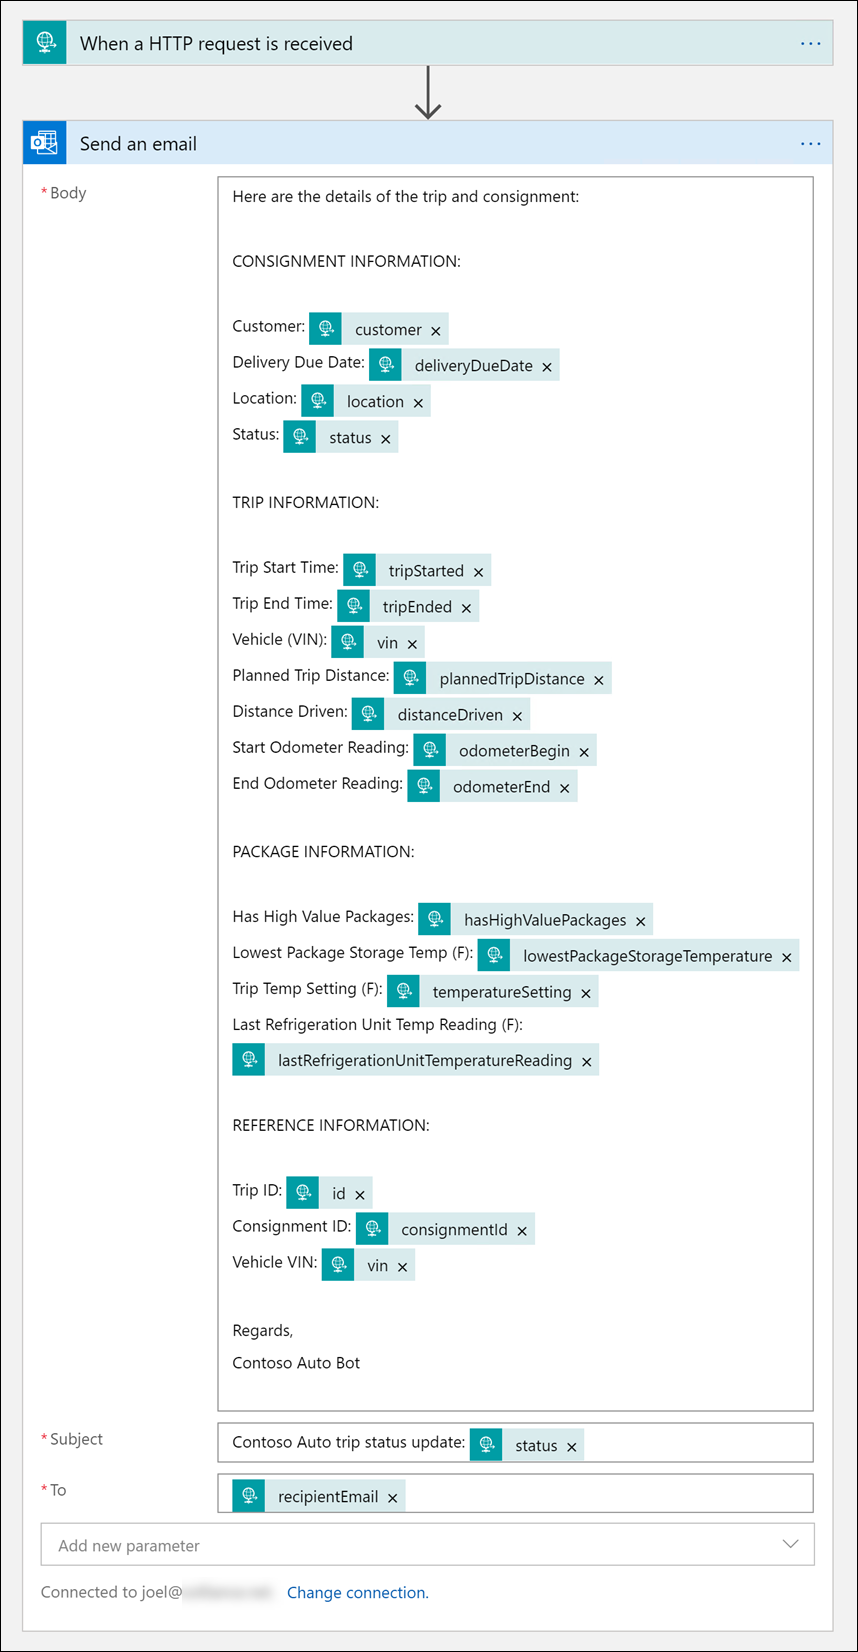
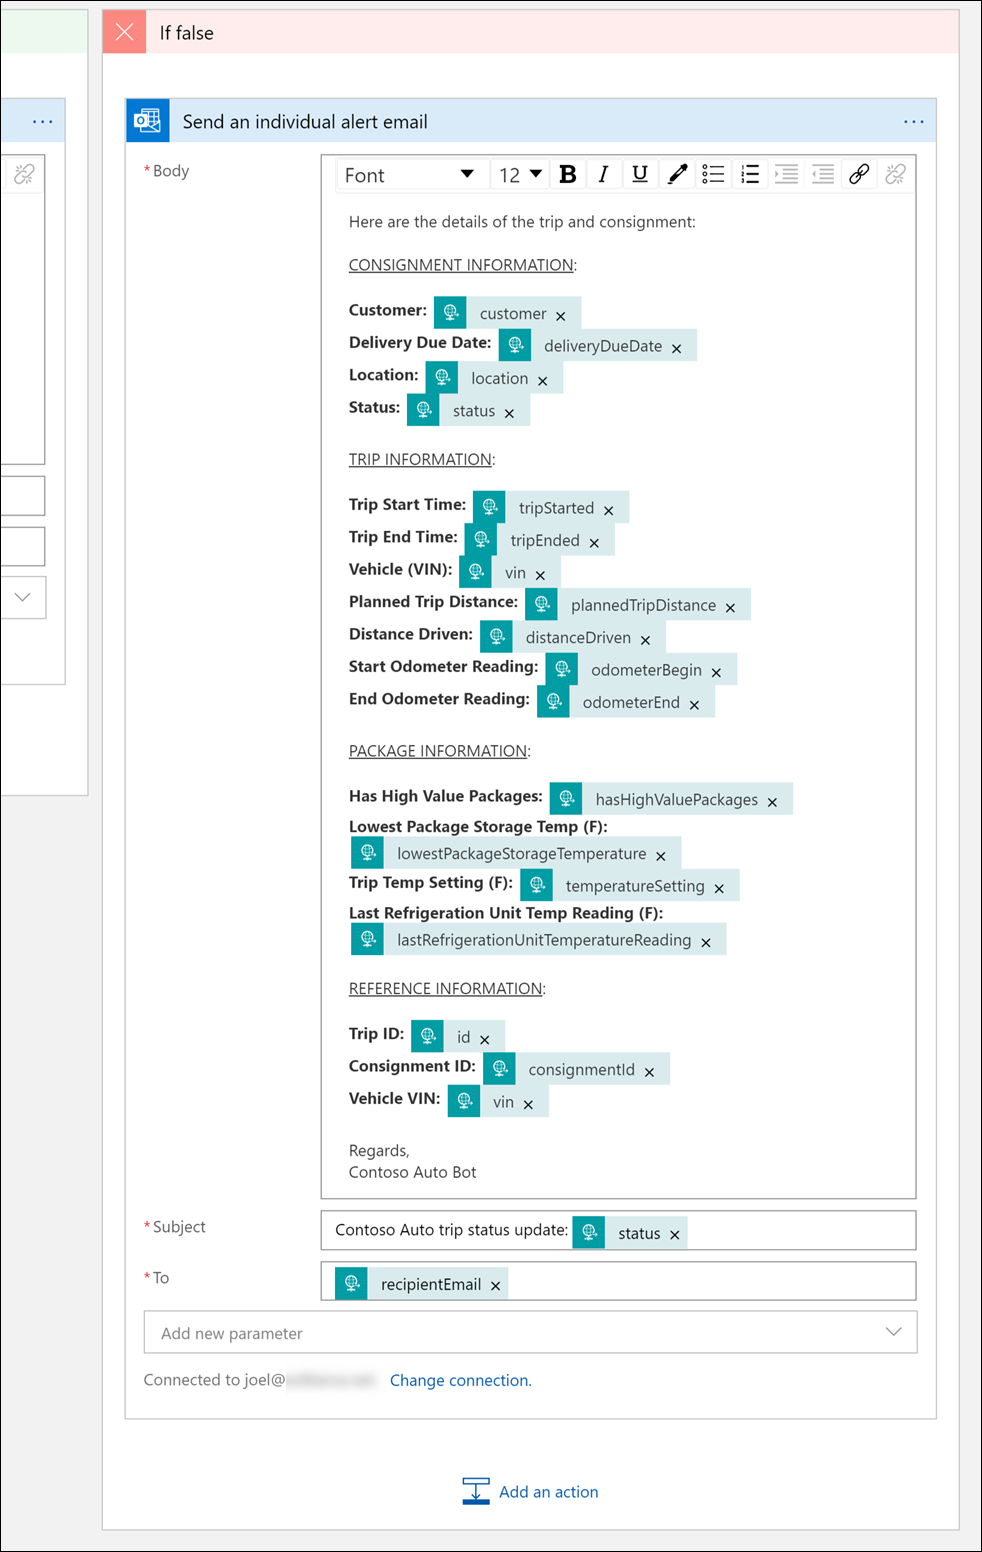
Updated Logic App information in the Quickstart guide

diff --git a/Quickstart.md b/Quickstart.md
@@ -342,7 +342,7 @@ The Azure Logic Apps service works as a powerful workflow orchestrator that nati
 
 The logic app that is deployed in the solution accelerator sends email notifications to recipients when certain event milestones occur, such as when a package delivery is running behind schedule, or when an oil pump encounters an anomaly.
 
-To view the logic app, select **Logic app designer** in the left-hand menu. This will display the current workflow in the visual designer. There are currently two activities:
+To view the logic app, select **Logic app designer** in the left-hand menu. This will display the current workflow in the visual designer. There are currently four activities:
 
 1. **HTTP trigger**: This is the entry point for the logic app. When you post a request to the URL provided by this activity, the logic app is triggered and it receives a payload of data from the request body in JSON format. This is the shape of the JSON document that the Azure Function sends to the logic app through this HTTP trigger:
 
@@ -353,6 +353,9 @@ To view the logic app, select **Logic app designer** in the left-hand menu. This
                 "type": "string"
             },
             "customer": {
+                "type": "string"
+            },
+            "delayedVINs": {
                 "type": "string"
             },
             "deliveryDueDate": {
@@ -366,6 +369,9 @@ To view the logic app, select **Logic app designer** in the left-hand menu. This
             },
             "id": {
                 "type": "string"
+            },
+            "isSummary": {
+                "type": "boolean"
             },
             "lastRefrigerationUnitTemperatureReading": {
                 "type": "integer"
@@ -400,6 +406,15 @@ To view the logic app, select **Logic app designer** in the left-hand menu. This
             "tripStarted": {
                 "type": "string"
             },
+            "tripsCompleted": {
+                "type": "integer"
+            },
+            "tripsDelayed": {
+                "type": "integer"
+            },
+            "tripsStarted": {
+                "type": "integer"
+            },
             "vin": {
                 "type": "string"
             }
@@ -410,11 +425,33 @@ To view the logic app, select **Logic app designer** in the left-hand menu. This
 
     Defining this payload allows subsequent activities to reference the fields to dynamically add the values, as you can see below.
 
-2. **Send an email**: This activity uses Office 365 to send an email to the defined email recipient (`recipientEmail` field). Office 365 is only one of many connections for sending emails. You can use Outlook, Gmail, SendGrid, and other email services. You can also use on of the [hundreds of service connectors](https://docs.microsoft.com/azure/connectors/apis-list) to send notifications or create multi-step workflows. Notice in the screenshot below that we are using dynamic field references in the email activity from the payload sent to the HTTP trigger:
+2. **Condition**: The Condition evaluates the `isSummary` value, which indicates whether the passed in alert is for a summary email (summary of alerts sent every x minutes) or an individual alert message. There are two paths, based on the value: **If true**, which contains an activity that sends the summary email, and **If false**, which contains an activity that sends the individual alert email.
+
+    ![The Condition within the logic app's designer is displayed.](media/logic-app-condition.png "Logic app condition")
+
+3. **Send an alert summary email**: This activity uses Office 365 to send an email to the defined email recipient (`recipientEmail` field). Office 365 is only one of many connections for sending emails. You can use Outlook, Gmail, SendGrid, and other email services. You can also use one of the [hundreds of service connectors](https://docs.microsoft.com/azure/connectors/apis-list) to send notifications or create multi-step workflows. Notice in the screenshot below that we are using dynamic field references in the email activity from the payload sent to the HTTP trigger:
+
+    ![The email activity within the logic app's designer is displayed.](media/logic-app-summary-email-activity.png "Logic app summary email activity")
+
+    You can use a dialog within the designer to add the dynamic fields from a list, or you can use a special dynamic field reference syntax (`@{source()?['field']}`) instead. When you paste the following into the email body, for instance, the dynamic fields will appear in the same way as in the screenshot above:
+
+    ```text
+    Here is a summary of the status of your trips:
+
+    Number of trips that started: @{triggerBody()?['tripsStarted']}
+    Number of trips that ended: @{triggerBody()?['tripsCompleted']}
+    Delayed trips: @{triggerBody()?['tripsDelayed']}
+    Delayed vehicles (VINs): @{triggerBody()?['delayedVINs']}
+
+    Regards,
+    Contoso Auto Bot
+    ```
+
+4. **Send an individual alert email**: This activity also uses Office 365 to send an email to the defined email recipient (`recipientEmail` field).
 
     ![The email activity within the logic app's designer is displayed.](media/logic-app-email-activity.png "Logic app email activity")
 
-    You can use a dialog within the designer to add the dynamic fields from a list, or you can use a special dynamic field reference syntax (`@{source()?['field']}`) instead. When you paste the following into the email body, for instance, the dynamic fields will appear in the same way as the screenshot above:
+    The email body is as follows:
 
     ```text
     Here are the details of the trip and consignment:
@@ -1401,10 +1438,22 @@ There is a lot of code within the data generator project, so we'll just touch on
         // Set initial performance to 400 RU/s due to light workloads.
         await _database.CreateContainerIfNotExistsAsync(maintenanceContainerDefinition, throughput: 400);
         #endregion
+
+        #region Alerts container
+        // Define a new container (collection).
+        var alertsContainerDefinition =
+            new ContainerProperties(id: AlertsContainerName, partitionKeyPath: $"/id")
+            {
+                IndexingPolicy = { IndexingMode = IndexingMode.Consistent }
+            };
+
+        // Set initial performance to 400 RU/s due to light workloads.
+        await _database.CreateContainerIfNotExistsAsync(alertsContainerDefinition, throughput: 400);
+        #endregion
     }
     ```
 
-    This method creates a Cosmos DB database if it does not already exist, otherwise it retrieves a reference to it (`await _cosmosDbClient.CreateDatabaseIfNotExistsAsync(DatabaseName);`). Then it creates `ContainerProperties` for the `telemetry`, `metadata`, and `maintenance` containers. The `ContainerProperties` object lets us specify the container's indexing policy. We use the default indexing policy for `metadata` and `maintenance` since they are read-heavy and benefit from a greater number of paths, but we exclude all paths in the `telemetry` index policy, and add paths only to those properties we need to query, due to the container's write-heavy workload. The `telemetry` container is assigned a throughput of 15,000 RU/s, 50,000 for `metadata` for the initial bulk import, then it is scaled down to 15,000, and 400 for `maintenance`.
+    This method creates a Cosmos DB database if it does not already exist, otherwise it retrieves a reference to it (`await _cosmosDbClient.CreateDatabaseIfNotExistsAsync(DatabaseName);`). Then it creates `ContainerProperties` for the `telemetry`, `metadata`, `maintenance`, and `alerts` containers. The `ContainerProperties` object lets us specify the container's indexing policy. We use the default indexing policy for `alerts`, `metadata`, and `maintenance` since they are read-heavy and benefit from a greater number of paths, but we exclude all paths in the `telemetry` index policy, and add paths only to those properties we need to query, due to the container's write-heavy workload. The `telemetry` container is assigned a throughput of 15,000 RU/s, 50,000 for `metadata` for the initial bulk import, then it is scaled down to 15,000, and 400 for `maintenance` and `alerts`.
 
 ### Task 4: Update application configuration
 
